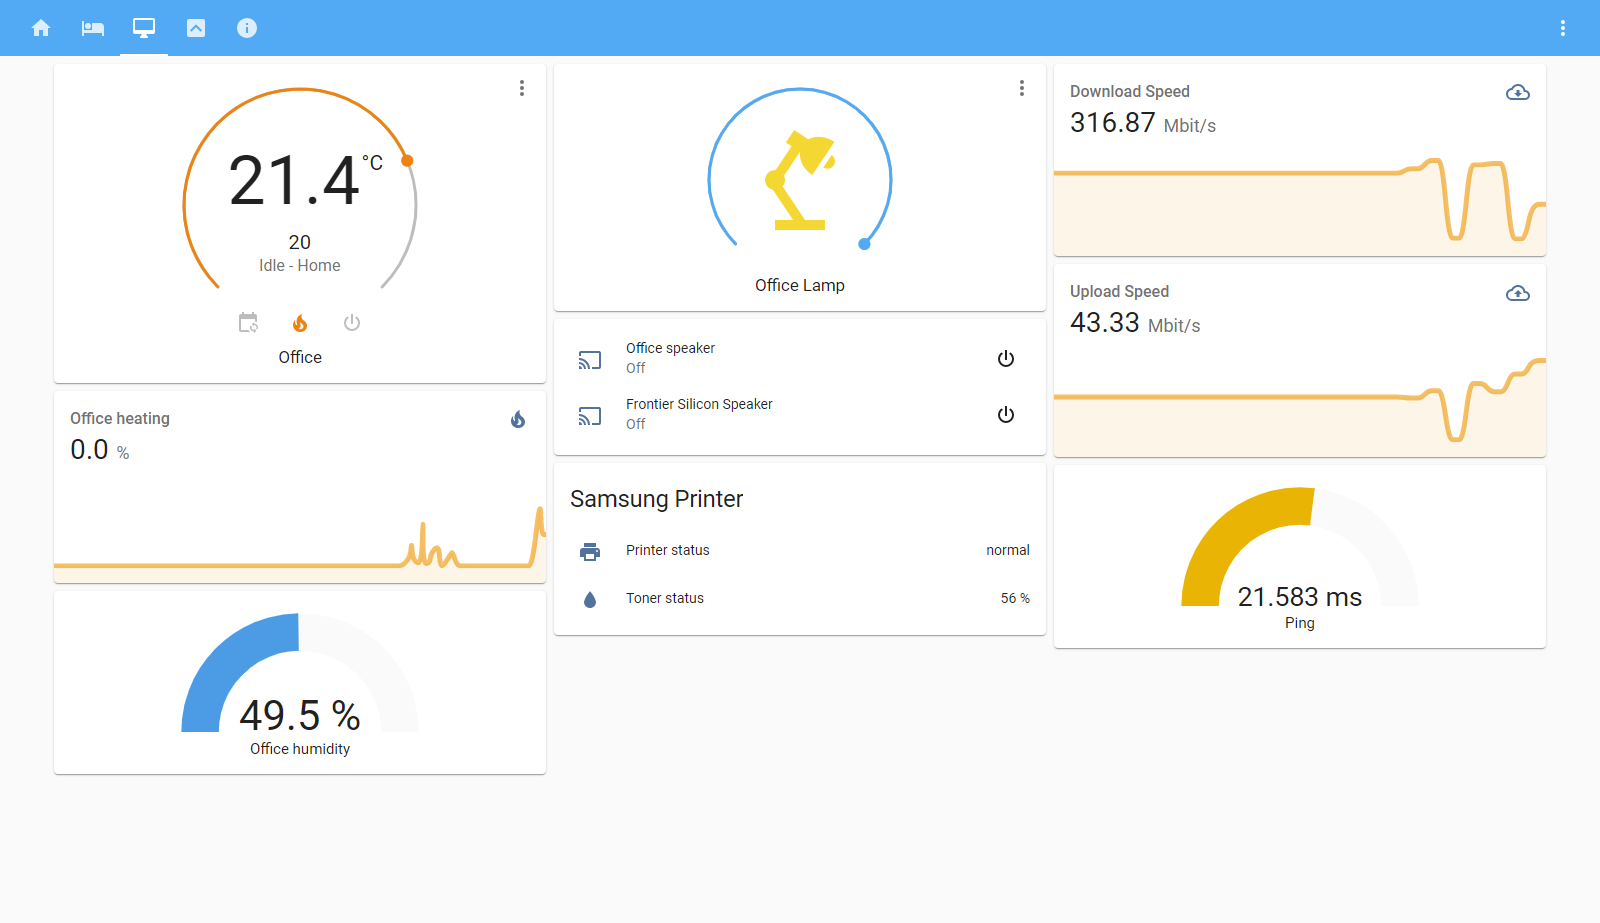
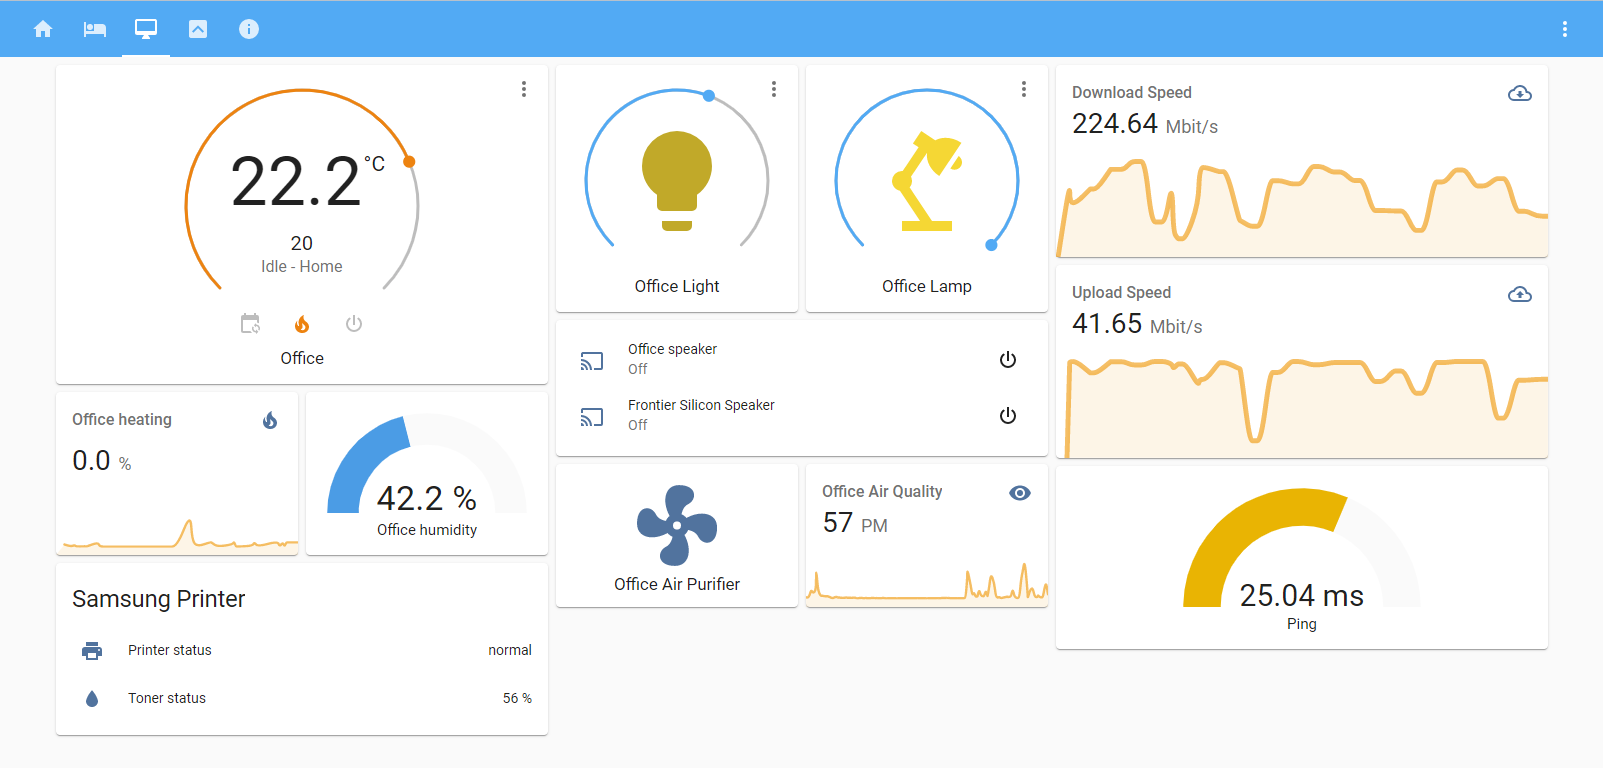
Update readme

diff --git a/README.md b/README.md
@@ -2,21 +2,25 @@
 Hassio instance integrating:
 * Tado thermostats
 * Xiaomi Vacuum
+* Xiaomi Air Purifiers
 * Xiaomi Aqara Gateway (1st gen)
 * Aqara Wall Switches
 * Aqara Motion Sensors
 * Aqara Zigbee Buttons
-* Yeelight Lights
+* Yeelight Bulbs and Ceiling Lights
 * Xiaomi Air Purifiers
 * Samsung Washing Machine
+* Samsung Printer
 * Chromecast Devices
 * Philips Ambilight TV
 * Xbox One S
 * TP-Link Smart Socket
 * Sonoff USB Switch
+* Ovo Energy Consumption Tracking
 
 # Screenshots
 ![Home](https://raw.githubusercontent.com/lubosjerabek/home-assistant-config/master/src/home.png)
 ![Bedroom](https://raw.githubusercontent.com/lubosjerabek/home-assistant-config/master/src/bedroom.png)
 ![Study](https://raw.githubusercontent.com/lubosjerabek/home-assistant-config/master/src/study.png)
 ![Loft](https://raw.githubusercontent.com/lubosjerabek/home-assistant-config/master/src/loft.png)
+![Info](https://raw.githubusercontent.com/lubosjerabek/home-assistant-config/master/src/info.png)
